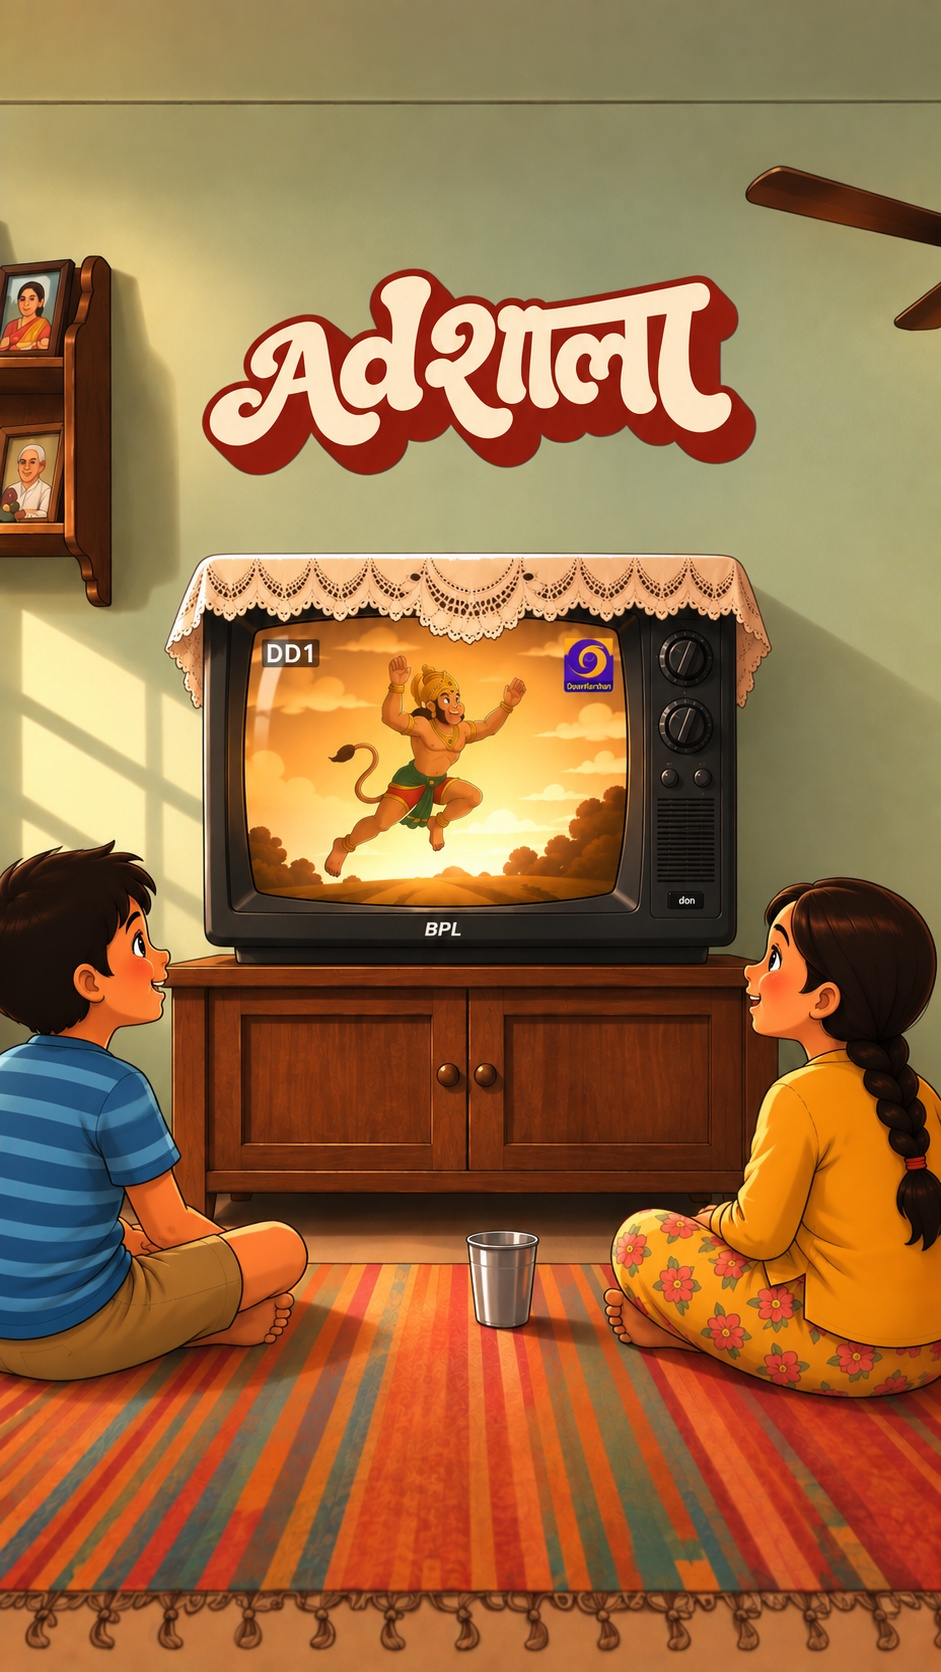
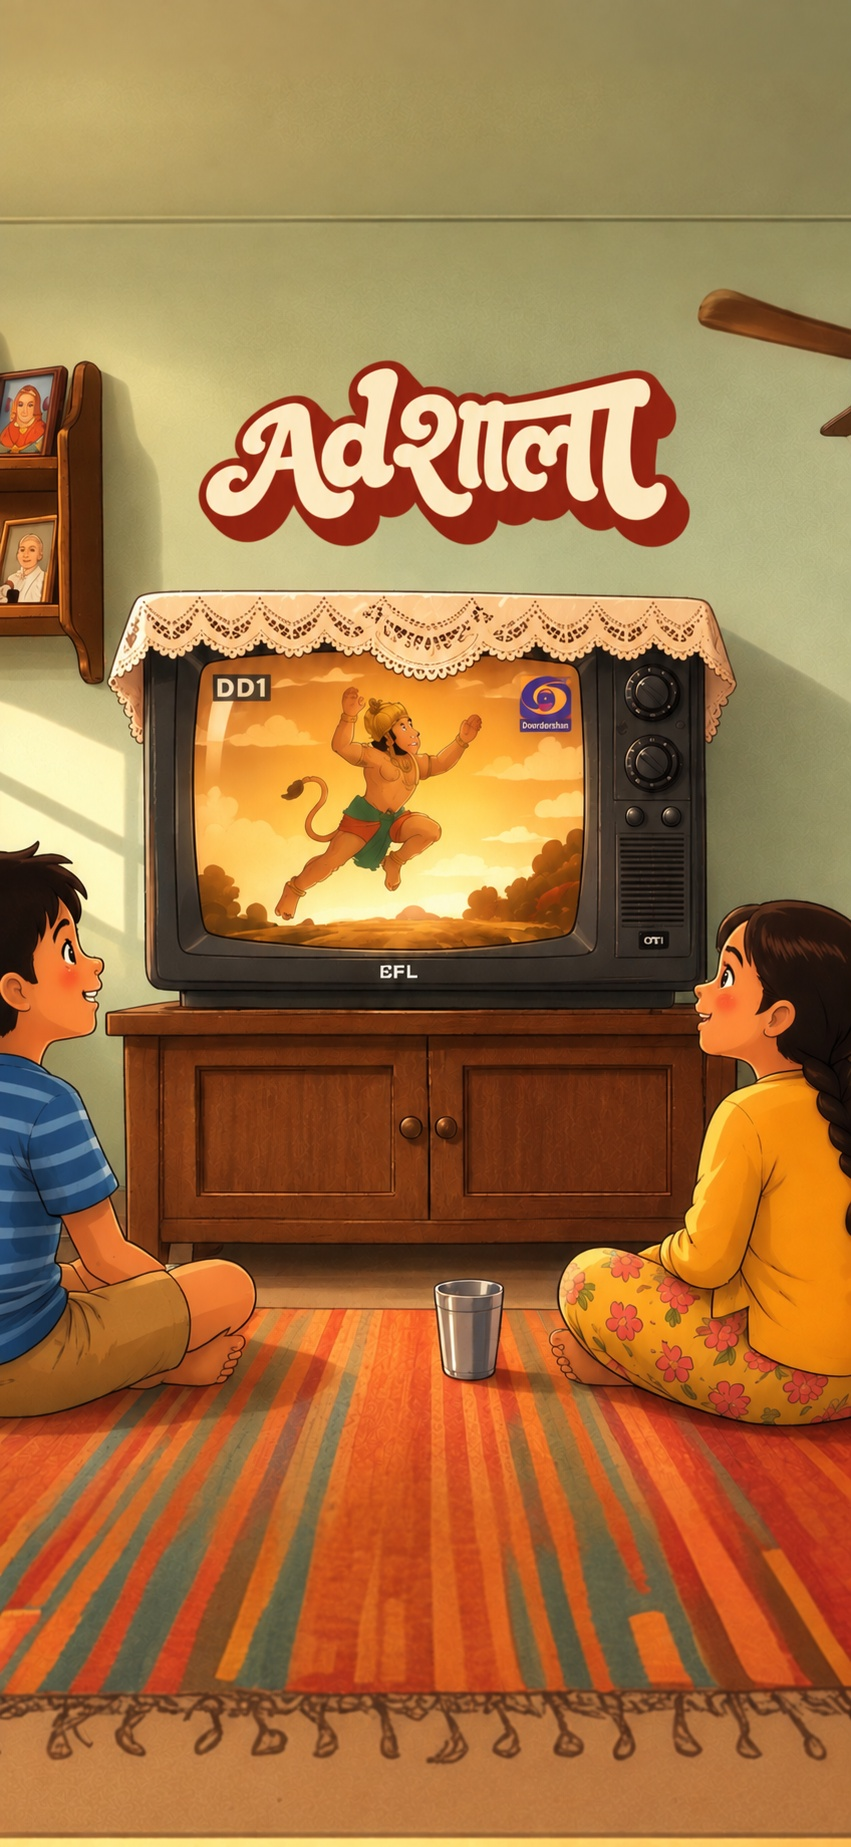
Swap in updated mobile "Adshala" artwork, recalibrate TV/fan overlay
New image (851x1847) has a different aspect ratio than the previous
mobile background, so the room-scene aspect-ratio and the TV
screen/fan overlay percentages needed re-measuring to match.

diff --git a/src/App.css b/src/App.css
@@ -304,19 +304,19 @@ html, body {
    genuinely small/narrow devices. */
 @media (max-aspect-ratio: 16/9) and (max-width: 1024px) {
   .room-scene {
-    width: min(100vw, calc(100vh * 941 / 1672));
-    height: min(100vh, calc(100vw * 1672 / 941));
+    width: min(100vw, calc(100vh * 851 / 1847));
+    height: min(100vh, calc(100vw * 1847 / 851));
     max-width: 100vw;
     max-height: 100vh;
-    aspect-ratio: 941 / 1672;
+    aspect-ratio: 851 / 1847;
     margin: auto;
     flex-shrink: 0;
   }
 
   @supports (height: 100dvh) {
     .room-scene {
-      width: min(100vw, calc(100dvh * 941 / 1672));
-      height: min(100dvh, calc(100vw * 1672 / 941));
+      width: min(100vw, calc(100dvh * 851 / 1847));
+      height: min(100dvh, calc(100vw * 1847 / 851));
       max-height: 100dvh;
     }
   }
@@ -328,18 +328,18 @@ html, body {
      with no gaps at all. */
   @supports (height: 100svh) {
     .room-scene {
-      width: min(100vw, calc(100svh * 941 / 1672));
-      height: min(100svh, calc(100vw * 1672 / 941));
+      width: min(100vw, calc(100svh * 851 / 1847));
+      height: min(100svh, calc(100vw * 1847 / 851));
       max-height: 100svh;
     }
   }
 
   /* CRT TV screen tube positioning aligned to 90s_tv_room_bg_mobile.jpg */
   .room-tv-screen-wrapper {
-    left: 26.0%;
-    top: 39.2%;
-    width: 42.5%;
-    height: 13.8%;
+    left: 22.9%;
+    top: 36.7%;
+    width: 42.7%;
+    height: 13.5%;
     border-radius: 4px;
     transform: scale(1.05);
     transform-origin: center center;
@@ -351,11 +351,11 @@ html, body {
 
   /* Ceiling fan position aligned to 90s_tv_room_bg_mobile.jpg */
   .animated-fan-container {
-    top: 7.8%;
+    top: 15.7%;
     right: auto;
-    left: 72.3%;
-    width: 27.7%;
-    height: 12.0%;
+    left: 79.9%;
+    width: 20.1%;
+    height: 10.8%;
   }
 }
 
